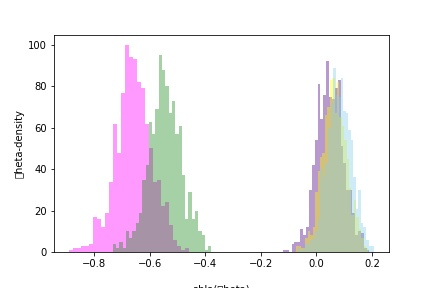
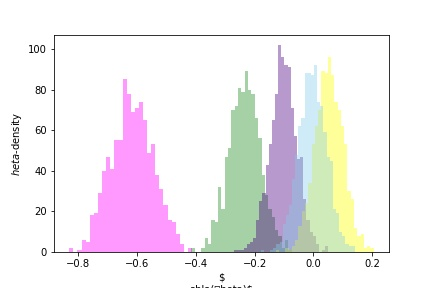
Add files via upload

diff --git a/SNR.py b/SNR.py
@@ -65,7 +65,7 @@ x_train, mu_true = generate_data(D, N)
 A_ = torch.eye(D) * 0.5
 b_ = torch.mean(x_train, dim = 0) * 0.5
 theta_ = torch.mean(x_train, dim = 0)
-grad_b = torch.zeros(loop, 5)
+grad_A = torch.zeros(loop, 5)
 grad_theta = torch.zeros(loop, 5)
 x_train_tensor = Variable(torch.Tensor(x_train))
 '''------------------------Construct model------------------------'''
@@ -78,20 +78,21 @@ for i in range(loop):
 	for j in range(len(K_all)):
 		Loss = model.get_loss(x_train_tensor, A, b, K_all[j], theta, flag)
 		Loss.backward()
-		grad_b[i, j] = b.grad[1]
+		grad_A[i, j] = A.grad[1,1]
 		grad_theta[i, j] = theta.grad[1]
 		A.grad.data.zero_()
 		b.grad.data.zero_()
 		theta.grad.data.zero_()
+	print(i)
 	
 plt.figure()
-plt.hist(grad_b[:,0], bins = 30, color='fuchsia',alpha = 0.4)
-plt.hist(grad_b[:,1], bins = 30, color='forestgreen',alpha = 0.4)
-plt.hist(grad_b[:,2], bins = 30, color='indigo',alpha = 0.4)
-plt.hist(grad_b[:,3], bins = 30, color='yellow',alpha = 0.4)
-plt.hist(grad_b[:,4], bins = 30, color='skyblue',alpha = 0.4)
-plt.xlabel('\nabla(b)')
-plt.ylabel('b-density')
+plt.hist(grad_A[:,0], bins = 30, color='fuchsia',alpha = 0.4)
+plt.hist(grad_A[:,1], bins = 30, color='forestgreen',alpha = 0.4)
+plt.hist(grad_A[:,2], bins = 30, color='indigo',alpha = 0.4)
+plt.hist(grad_A[:,3], bins = 30, color='yellow',alpha = 0.4)
+plt.hist(grad_A[:,4], bins = 30, color='skyblue',alpha = 0.4)
+plt.xlabel('$\nabla(b)$')
+plt.ylabel('$b$-density')
 plt.savefig('VAE gradient for inference network.jpg')
 plt.figure()
 plt.hist(grad_theta[:,0], bins = 30, color='fuchsia',alpha = 0.4)
@@ -99,7 +100,7 @@ plt.hist(grad_theta[:,1], bins = 30, color='forestgreen',alpha = 0.4)
 plt.hist(grad_theta[:,2], bins = 30, color='indigo',alpha = 0.4)
 plt.hist(grad_theta[:,3], bins = 30, color='yellow',alpha = 0.4)
 plt.hist(grad_theta[:,4], bins = 30, color='skyblue',alpha = 0.4)
-plt.xlabel('\nabla(\theta)')
-plt.ylabel('\theta-density')
+plt.xlabel('$\nabla(\theta)$')
+plt.ylabel('$\theta$-density')
 plt.savefig('VAE gradient for generative network.jpg')
 plt.show()
